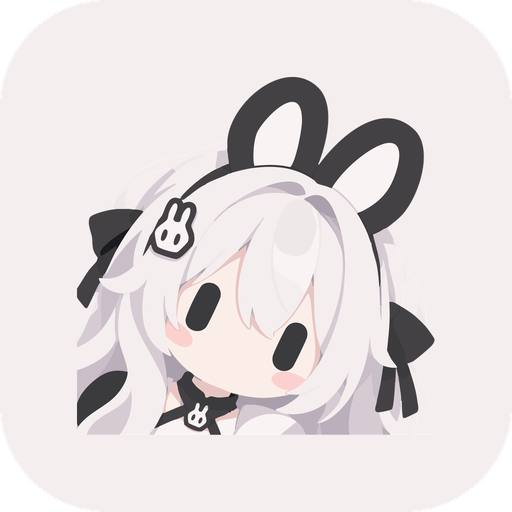
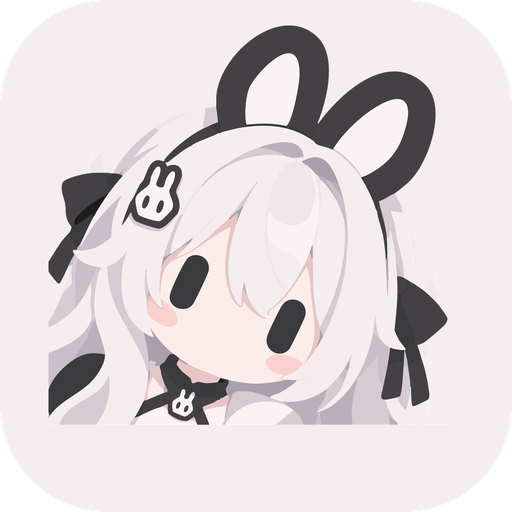
feat(custom): launcher 插画重新对位（C92）
70% 居中时眼睛落在圆形遮罩的右下，看起来没对正。按眼睛在插画里的位置（画布 47.4%、69.6%）换算，插画占 108dp 画布 78%，再相对中心左移 1.5%、上移 6%，眼睛落到圆形遮罩中心附近。

legacy 圆角 20.8%、背景 #F4EEEF 不变；圆形遮罩下耳朵尖和两侧头发仍会被裁掉；插画底部是裁切的人像，上移后底部裁切线接近遮罩下缘，再往上移就会露出来。

测试：:app:assembleGithubDebug 通过并安装到设备；圆形和圆角方形预览核对；没有在真实桌面上截图验证。

Changed region(s): [[0.0938, 0.0312, 0.875, 0.875]]

diff --git a/docs/custom/checklist.md b/docs/custom/checklist.md
@@ -99,6 +99,7 @@
 | C89 | workspace 前台命令超时后的孤儿进程清理 | 改造 |
 | C90 | 应用图标与可见文案改名 RakkiHub | 改造 |
 | C91 | 关于页链接改指本仓库 | 改造 |
+| C92 | launcher 插画重新对位 | 改造 |
 
 ## 明细
 
@@ -699,3 +700,10 @@
 - 理由：仓库改名后关于页仍指向官方官网和上游仓库；本仓库没有自己的网站，直接删掉入口，GitHub 和 License 指向本仓库
 - 合并注意：上游改关于页时保留这两处链接；`LICENSE` 文件保持纯 AGPL-3.0 文本，不加作者信息，否则 GitHub 识别不出许可证类型，fork 的修改版权在 README 的许可证段落里说明。C14 里「`rikka-ai.com`、GitHub、LICENSE 链接保留」的旧说法已由本项取代
 - 测试：`:app:compileGithubDebugKotlin` 通过；关于页 Website 入口消失，四个 locale 删除后没有残留引用；没有在设备上逐个点开链接验证
+
+### C92 launcher 插画重新对位
+
+- 落点：重新生成 `app/src/main/res/mipmap-*/` 的 `ic_launcher.png`、`ic_launcher_foreground.png` 与 `docs/icon.png`（`ic_launcher_background.png` 不变），插画占 108dp 画布 78%，并相对画布中心左移 1.5%、上移 6%
+- 理由：70% 居中时眼睛落在圆形遮罩的右下，看起来没对正；按眼睛位置（画布 47.4%、69.6%）换算，78% 再左移 1.5%、上移 6% 后眼睛大致落在圆形遮罩中心
+- 合并注意：C90 里“前景缩放到 70%”的说法已由本项取代。圆形遮罩下耳朵尖和两侧头发仍会被裁掉；插画底部是裁切的人像，上移后底部裁切线接近遮罩下缘，再往上移就会露出来。legacy 圆角 20.8%、背景 `#F4EEEF` 不变
+- 测试：`:app:assembleGithubDebug` 通过并安装到设备；生成后的圆角方形、圆形和 96px 预览核对；没有在真实桌面上截图验证
